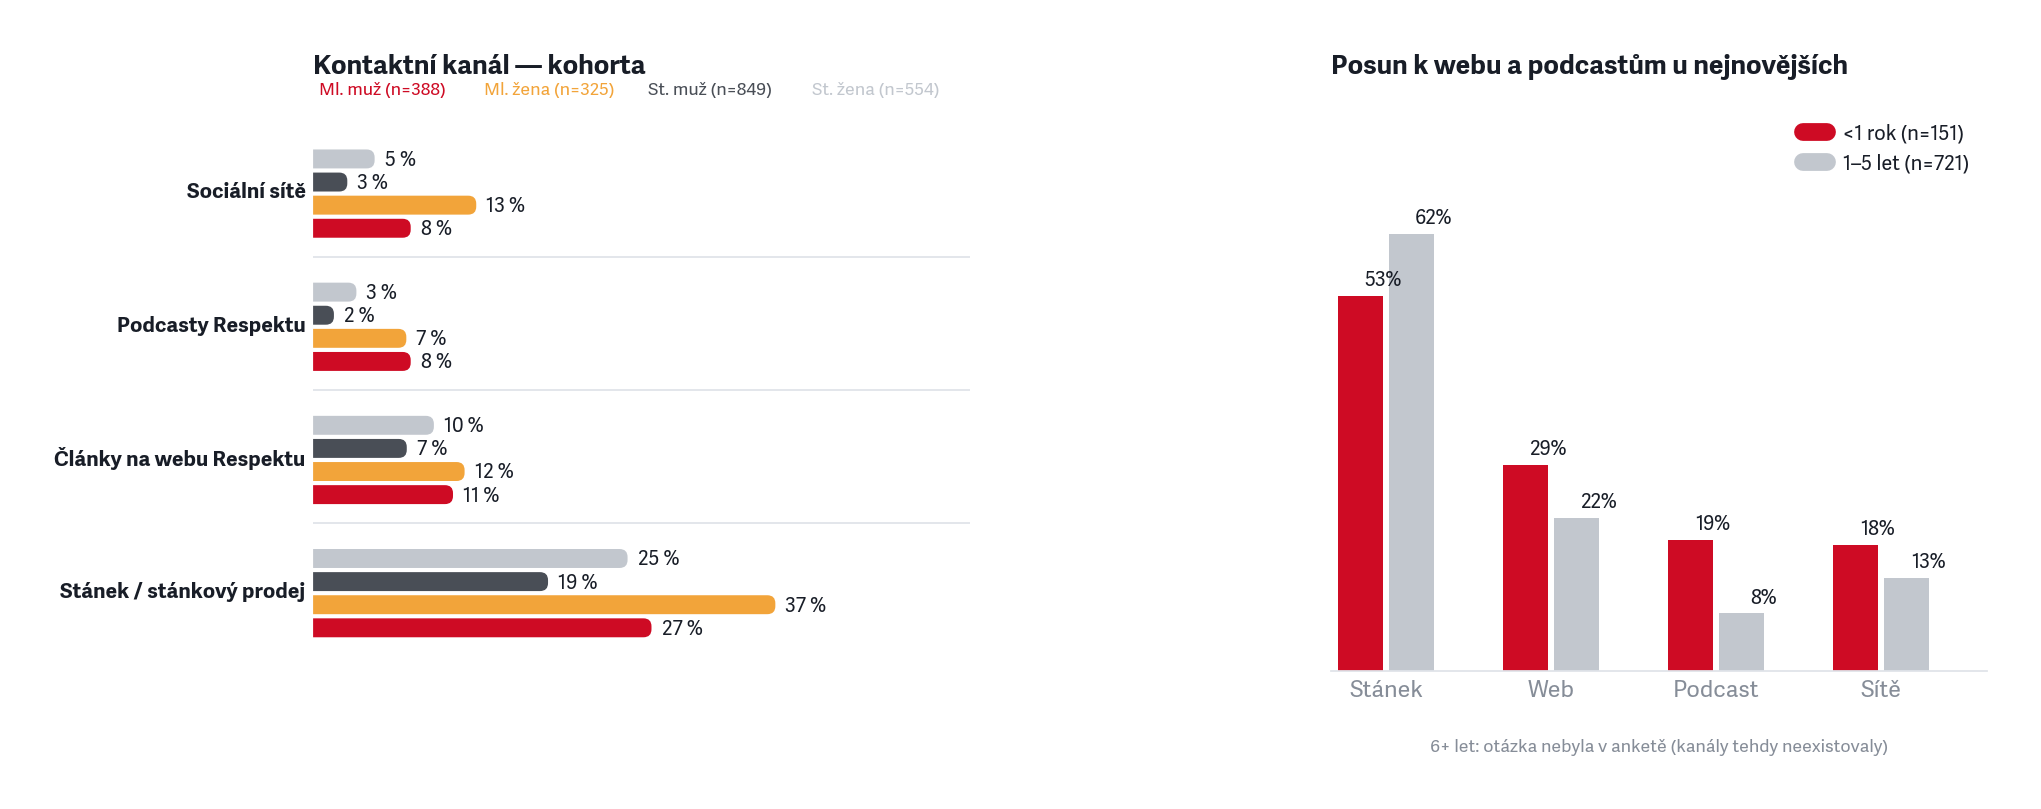
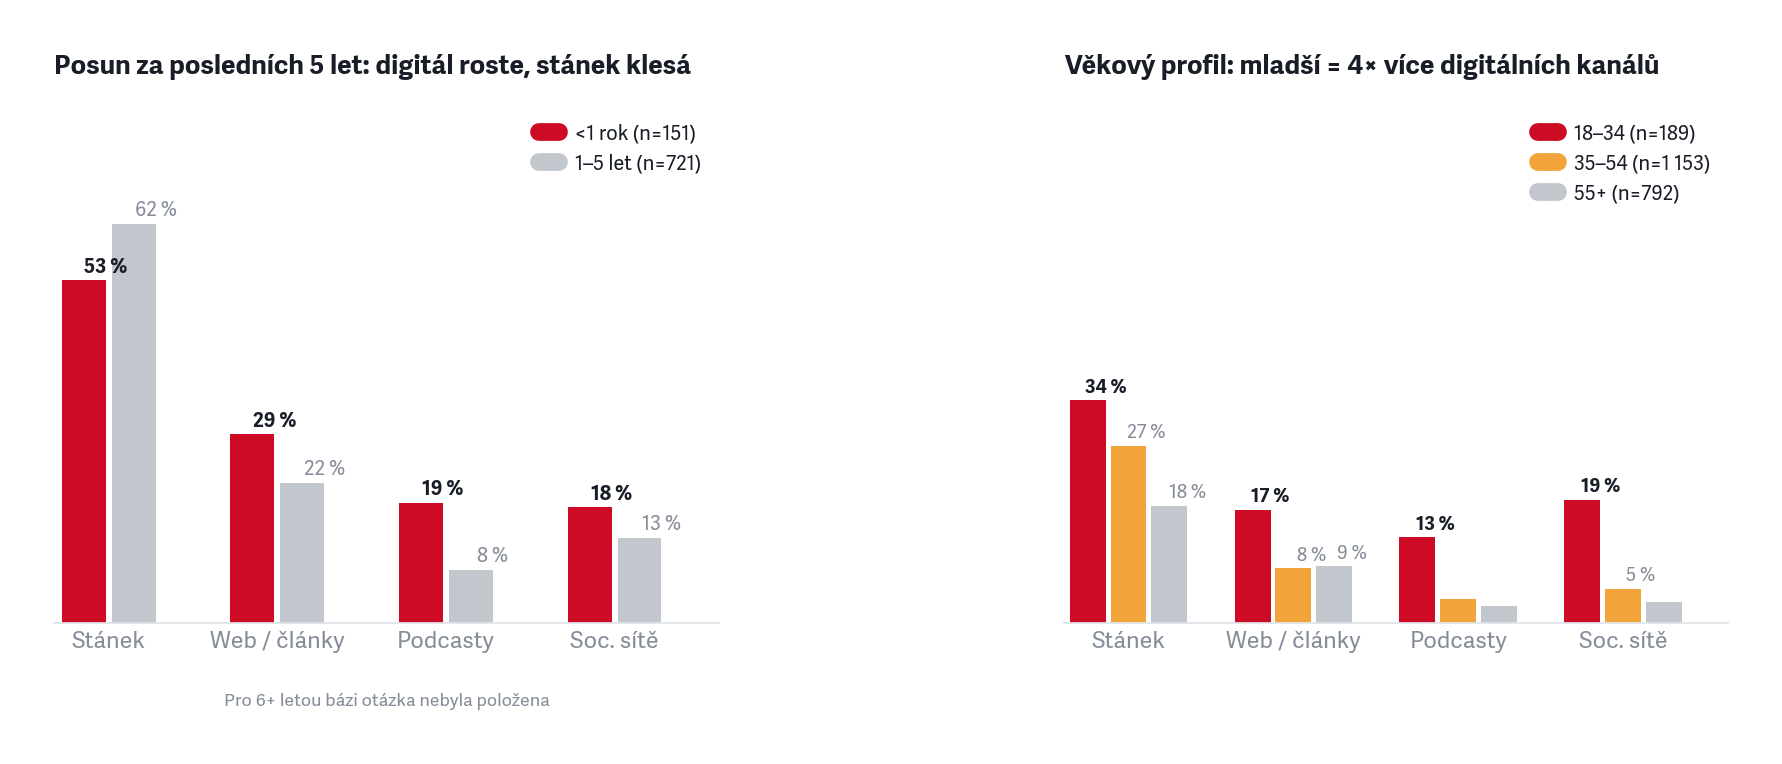
Slide 21b: přefrámování na generační posun akvizičních kanálů
Graf redesignován: vlevo čas (<1 rok vs 1–5 let), vpravo věk (18–34 / 35–54 / 55+)
- Podcast: 8→19 % u nejnovějších; 13 % u 18–34 vs 3 % u 55+
- Sítě: 13→18 %; 19 % u 18–34 vs 3 % u 55+
- Stánek: klesá z 62→53 %; stále dominantní u starších

diff --git a/charts/make_charts.py b/charts/make_charts.py
@@ -523,95 +523,89 @@ def chart_akvizicni_kanaly():
     web   = xc(df.columns[14])
     pod   = xc(df.columns[15])
     site  = xc(df.columns[17])
-
-    vek     = num("vek_ord")
-    pohlavi = df["Jaké je vaše pohlaví?"].str.strip()
-    delka   = num("delka_predplatneho_ord")
-
-    mladi  = vek.isin([1, 2, 3])
-    starsi = vek.isin([4, 5, 6])
-    mm = mladi  & (pohlavi == "Muž")
-    mz = mladi  & (pohlavi == "Žena")
-    sm = starsi & (pohlavi == "Muž")
-    sz = starsi & (pohlavi == "Žena")
+    vek   = num("vek_ord")
+    delka = num("delka_predplatneho_ord")
 
     def pct(mask_n, mask_d):
         n = mask_d.sum()
         return mask_n[mask_d].sum() / n * 100 if n else 0
 
-    cohorts  = [("Ml. muž",   mm, RED),     ("Ml. žena",   mz, AMBER),
-                ("St. muž",   sm, GRAPHITE), ("St. žena",   sz, GRAYBAR)]
-    channels = [("Stánek / stánkový prodej", stank),
-                ("Články na webu Respektu",  web),
-                ("Podcasty Respektu",         pod),
-                ("Sociální sítě",             site)]
+    all_ch    = [stank, web, pod, site]
+    ch_labels = ["Stánek", "Web / články", "Podcasty", "Soc. sítě"]
 
-    fig, (ax1, ax2) = plt.subplots(1, 2, figsize=(13.5, 4.6),
-                                    gridspec_kw={"wspace": 0.55})
+    fig, (ax1, ax2) = plt.subplots(1, 2, figsize=(13.5, 4.2),
+                                    gridspec_kw={"wspace": 0.52})
 
-    # --- Levý panel: grouped horizontal bars channel × cohort ---
-    bar_h = 0.17
-    grp_h = len(cohorts) * bar_h + 0.30
-    ax1.set_xlim(0, 52)
-    ax1.set_ylim(-0.25, len(channels) * grp_h)
-    for ci, (ch_label, ch_mask) in enumerate(channels):
-        y_base = ci * grp_h
-        for bi, (co_label, co_mask, co_color) in enumerate(cohorts):
-            y = y_base + bi * bar_h
-            v = pct(ch_mask, co_mask)
-            round_rect(ax1, 0, y, max(v, 0.3), bar_h * 0.82, co_color, corners="tr,br", R=5)
-            ax1.text(v + 0.8, y + bar_h * 0.41, f"{v:.0f} %",
-                     va="center", fontsize=9, color=INK)
-        ax1.text(-0.6, y_base + len(cohorts) * bar_h / 2,
-                 ch_label, va="center", ha="right", fontsize=9.5, color=INK, fontweight="bold")
-        if ci > 0:
-            ax1.axhline(y_base - 0.14, color=HAIRLINE, lw=0.8)
-
-    # legenda nahoře
-    for bi, (co_label, co_mask, co_color) in enumerate(cohorts):
-        n = int(co_mask.sum())
-        ax1.text(13 * bi + 0.5, len(channels) * grp_h + 0.08,
-                 f"{co_label} (n={n})", fontsize=8, color=co_color)
-
-    ax1.set_yticks([]); ax1.set_xticks([])
-    for s in ("top", "right", "left", "bottom"): ax1.spines[s].set_visible(False)
-    ax1.set_title("Kontaktní kanál — kohorta", fontsize=12, fontweight="bold",
-                  color=INK, loc="left", pad=14)
-
-    # --- Pravý panel: trend <1 rok vs 1–5 let ---
-    all_ch = [stank, web, pod, site]
-    short  = ["Stánek", "Web", "Podcast", "Sítě"]
-    delka_g = [(0, "<1 rok (n=151)", RED), (1, "1–5 let (n=721)", GRAYBAR)]
+    # ---- Levý panel: čas — <1 rok vs 1–5 let ----
+    delka_g = [
+        (0, "<1 rok\n(n=151)",  RED),
+        (1, "1–5 let\n(n=721)", GRAYBAR),
+    ]
     bw = 0.34
-    xs = [0, 1.1, 2.2, 3.3]
+    xs = [0, 1.15, 2.30, 3.45]
 
     for di, (dv, dl, dc) in enumerate(delka_g):
         mask_d = delka == dv
         for xi, ch_mask in enumerate(all_ch):
             v = pct(ch_mask, mask_d)
             xpos = xs[xi] + di * bw
-            ax2.bar(xpos, v, width=bw * 0.88, color=dc, zorder=2)
-            ax2.text(xpos + bw * 0.44, v + 1.5, f"{v:.0f}%",
-                     ha="center", fontsize=9, color=INK)
+            ax1.bar(xpos, v, width=bw * 0.88, color=dc, zorder=2)
+            ax1.text(xpos + bw * 0.44, v + 1.2, f"{v:.0f} %",
+                     ha="center", fontsize=9,
+                     color=INK if di == 0 else GRAY,
+                     fontweight="bold" if di == 0 else "normal")
 
-    ax2.set_xticks([x + bw / 2 for x in xs])
-    ax2.set_xticklabels(short, fontsize=10.5)
-    ax2.set_xlim(-0.2, xs[-1] + bw * 2 + 0.2)
+    ax1.set_xticks([x + bw / 2 for x in xs])
+    ax1.set_xticklabels(ch_labels, fontsize=10.5)
+    ax1.set_xlim(-0.2, xs[-1] + bw * 2 + 0.2)
+    ax1.set_ylim(0, 80)
+    ax1.set_yticks([])
+    for s in ("top", "right", "left"): ax1.spines[s].set_visible(False)
+    ax1.spines["bottom"].set_color(HAIRLINE)
+    ax1.tick_params(length=0)
+    for di, (dv, dl, dc) in enumerate(delka_g):
+        ax1.plot([], [], color=dc, linewidth=8, solid_capstyle="round",
+                 label=dl.replace("\n", " "))
+    ax1.legend(fontsize=9, frameon=False, loc="upper right", handlelength=1.0)
+    ax1.annotate("Pro 6+ letou bázi otázka nebyla položena",
+                 xy=(0.5, -0.16), xycoords="axes fraction",
+                 fontsize=8, color=GRAY, ha="center")
+    ax1.set_title("Posun za posledních 5 let: digitál roste, stánek klesá",
+                  fontsize=12, fontweight="bold", color=INK, loc="left", pad=14)
+
+    # ---- Pravý panel: věk — 18–34 vs 35–54 vs 55+ ----
+    age_g = [
+        (vek.isin([1, 2]),    "18–34\n(n=189)",   RED),
+        (vek.isin([3, 4]),    "35–54\n(n=1 153)", AMBER),
+        (vek.isin([5, 6]),    "55+\n(n=792)",      GRAYBAR),
+    ]
+    bw2 = 0.26
+    xs2 = [0, 1.05, 2.10, 3.15]
+
+    for di, (age_mask, al, ac) in enumerate(age_g):
+        for xi, ch_mask in enumerate(all_ch):
+            v = pct(ch_mask, age_mask)
+            xpos = xs2[xi] + di * bw2
+            ax2.bar(xpos, v, width=bw2 * 0.88, color=ac, zorder=2)
+            if v >= 5:
+                ax2.text(xpos + bw2 * 0.44, v + 1.2, f"{v:.0f} %",
+                         ha="center", fontsize=8.5,
+                         color=INK if di == 0 else GRAY,
+                         fontweight="bold" if di == 0 else "normal")
+
+    ax2.set_xticks([x + bw2 for x in xs2])
+    ax2.set_xticklabels(ch_labels, fontsize=10.5)
+    ax2.set_xlim(-0.15, xs2[-1] + bw2 * 3 + 0.15)
     ax2.set_ylim(0, 80)
     ax2.set_yticks([])
     for s in ("top", "right", "left"): ax2.spines[s].set_visible(False)
     ax2.spines["bottom"].set_color(HAIRLINE)
     ax2.tick_params(length=0)
-
-    # legenda pravého panelu
-    for di, (dv, dl, dc) in enumerate(delka_g):
-        ax2.plot([], [], color=dc, linewidth=8, solid_capstyle="round", label=dl)
-    ax2.legend(fontsize=9, frameon=False, loc="upper right", handlelength=1.2)
-
-    ax2.annotate("6+ let: otázka nebyla v anketě (kanály tehdy neexistovaly)",
-                 xy=(0.5, -0.14), xycoords="axes fraction",
-                 fontsize=8, color=GRAY, ha="center")
-    ax2.set_title("Posun k webu a podcastům u nejnovějších",
+    for di, (age_mask, al, ac) in enumerate(age_g):
+        ax2.plot([], [], color=ac, linewidth=8, solid_capstyle="round",
+                 label=al.replace("\n", " "))
+    ax2.legend(fontsize=9, frameon=False, loc="upper right", handlelength=1.0)
+    ax2.set_title("Věkový profil: mladší = 4× více digitálních kanálů",
                   fontsize=12, fontweight="bold", color=INK, loc="left", pad=14)
 
     save(fig, "akvizicni_kanaly.png")

diff --git a/prezentace/slides.md b/prezentace/slides.md
@@ -1,50 +1,9 @@
 <!-- .slide: data-background-color="#222222" -->
 <div class="dark title">
 <p class="kicker">PŘEDPLATITELSKÝ PRŮZKUM</p>
-<h1>predplatiteľský prieskum určený na zisťovanie nálady v predplatiteľskom kmeni, smerovanie vývoja a marketingu a cieľom je udržanie retencie resp. prezícnejší pozicioning online produktu.Klíčová zjištění</h1>
+<h1>Klíčová zjištění</h1>
 <p class="meta">N = 2 139 dokončených odpovědí · export 20. 6. 2026</p>
 </div>
-
----
-
-Rado
-
-- Jadro do 10 rokov! ?
-- segmentácia: v čom sú iní mladší?
-- Ak klesá print, ako nahradíme najčastejší vstupný produkt? Case for online reach / trial
-- Youtube nie je vstupnou bránou (aspoň nie teraz)
-- četl jsem cizí výtisk Sila printu sa multiplikuje cirkuláciou - pořád silné!
-- Newslettre nie sú asi silný akvizičný benefit? Nemali by sme ich používať v komunikácii?
-- audio = pohodlnost, důraz na přístupnost a ux
-- sdílení v rodině - klub/rodičovské
-- Zopakujme si to: nie sme rychlé shrnutí
-- V akvizičnej komunikácii spomínajme úlohu média, konkrétnych silných autorov a audio?
-- Lákadlom na web / app je archív, odtiaľ môžeme budovať online návyky
-- "heldám nové zaujímavé čtení" - discover tab (personalizované)?
-- potvrdenie: aplikácia je silnejší retenčný nástroj ako web - graf přidat
-- app Most pre budovanie online návyku: vlastnosti printu a audia
-- app chybí Jasné: vyhľadávanie, označovnanie (fajka od Economistu určite?)
-- Jadro sú politika a komentáre (vieme), ale pritom stále ide o pozitívny, oddychový rituál (vzácne!)
-- AI hlas je najväčší produktový problém celého prieskumu — ale dáta ho rozkladajú na tri opraviteľné vrstvy. V hlavných možnostiach je „audiočlánky zní moc uměle" tretia najčastejšia bariéra (273). „Jiné" k tomu pridáva ~30 hlasov, ktoré sa delia na: (a) opraviteľné defekty — chýbajúce pauzy medzi článkami, „uřízlé" začiatky, splývanie nadpisov, výslovnosť mien/čísloviek/skratiek, kolísanie hlasitosti, jeden ženský hlas s vysokofrekvenčným šumom (konkrétny audio bug!); (b) UX návrhy — dvojhlas pre rozhovory, striedanie hlasov, nastaviteľná medzera; (c) principiálny smútok za ľuďmi — s elegantným kompromisom priamo od respondenta: „hlavní článek čísla přečtený od člověka, jeden týdně by možná šel, ne?". A dôležitý protihlas: „Teď, když jsou všechny články načteny AI, nemám se svým očním handicapem žádné bariéry. Dříve velké." — AI audio je zároveň prístupnosť a škálovateľnosť. Záver pre Respekt: nie návrat k ľuďom, ale QA vrstva + hybridný model.
-- poslech kde - výborný podiel aplikácie (sedia aj čísla?) - ověřit
-- strata pozície prehrávania pri prerušení (~9 — najčastejší jednotlivý bug), autoplay/playlist problémy (~5), neprehľadnosť a orientácia (~12), chýbajúce vyhľadávanie (4), offline sťahovanie s absurdným UX (3 — „pro stažení musím nejdřív spustit přehrávání"), nefunkčné ovládanie na zamknutej obrazovke/cez Bluetooth (~4), chýbajúca kontinuita poslchu web↔app (1, pekne opísaná).
-- Existuje aj tretia cesta — a respondenti ju sami navrhujú: privátny RSS feed pre predplatiteľov. „Ideální by bylo mít RSS zdroj i pro své audio předplatné, abych si ho mohl přidat do své aplikace."
-
----
-
-ChatGPT
-
-- Respekt je vnímán jako důvěryhodná instituce, analytické médium a hodnotový projekt.
-- Důvěra a témata jsou silnější než objem obsahu.
-- Převaha dlouhodobých a vysokoškolsky vzdělaných předplatitelů.
-- Nezávislá žurnalistika je dominantní motiv.
-- Velmi vysoká deklarovaná retence.
-- Pět hodnotových segmentů publika.
--- Analytici a opinion leaders - 28 % publika. Hledají interpretaci a kontext.
--- Hodnotoví podporovatelé - 21 % publika. Platí za existenci nezávislé žurnalistiky.
--- Kulturně-intelektuální čtenáři - 20 % publika. Eseje, kultura, inspirace.
--- Tradiční věrní - 19 % publika. Silná vazba na tisk a značku.
--- Hledači orientace - 12 % publika. Přehled, orientace, audio.
 
 ---
 
@@ -118,10 +77,7 @@ ChatGPT
 ![](charts/heat_spokojenost.png)
 
 > Zlepšit kvalitu AI hlasu (výslovnost, rozlišení hlasů) a aktivovat ty, kdo audio zatím míjejí.
-- MIXUJÍ SE TAM STÍŽNOSTI NA VÝSLOVNOST V PODCASTECH
-- Jeden z vašich hlasů, ženský, který často používáte na hlavní témata, má v pozadí vysokofrekvenční zvuk, který z toho dělá neposlouchatelnou věc. Slyším to v autě i ve sluchátcích a už hodně dlouho, nemyslím si, že to je problém na mojí straně
-- ČASTO ŘEŠÍ UŽ VYŘEŠENÉ - CHYBĚJÍCÍ TEXTY (AUDIOTÉKA?), STŘÍDÁNÍ HLASŮ V ROZHOVORECH, V2, 
-- ODLIŠENÍ KONCE A ZAČÁTKU, DLOUHÉ PAUZY, ZMĚNY HLASU NA ZAČÁTKU ODSTAVŮC
+
 ---
 
 ## 6 · Vyhledávání a archiv = nejkonkrétnější funkční mezera
@@ -131,11 +87,7 @@ ChatGPT
 
 ![](charts/vyhledavani.png)
 
-> Vyhledávání a orientaci v archivu vysoko na app/web roadmapu — opakovaná a řešitelná rychlá výhra.
-
-- VYHLEDÁVÁNÍ PŘIDAT RICE VÝŠ, DEEPLINKY
-- ZVÁŠŽIT FUNKCI LANDING PAGE Z IG V APP
-- 
+> Vyhledávání a orientaci v archivu vysoko na app/web roadmapu — opakovaná a řešitelná rychlá výhra. 
 
 ---
 
@@ -161,8 +113,6 @@ ChatGPT
 ![](charts/vytky.png)
 
 > Redakční reflexe kultury, vyváženosti a délky; „bias" je menšinový, ale hlasitý a hodnotově nabitý signál.
-
-- TOHLE JEŠTĚ VZTÁHNOUT K UZAVŘENÝM - DORUČOVÁNÍ MENŠÍ, DÉLKA ČLÁNKŮ ASI TAKY NEODPOVÍDÁ
 
 ---
 
@@ -230,8 +180,6 @@ ChatGPT
 ![](charts/churneri_overindex.png)
 
 > Retence musí mířit na obě osy zvlášť — produktové opravy neudrží toho, kdo odchází kvůli vnímané jednostrannosti.
-
-- DIVNÝ SLOVNÍK
 
 ---
 
@@ -315,8 +263,6 @@ ChatGPT
 
 > Vizuální identita má emoční vazbu ke značce; zvážit konstruktivní / řešení-orientovaný obsah jako protiváhu.
 
-- OPATRNĚJŠÍ FORMULACE
-
 ---
 
 ## 21 · Co přimělo k předplatnému — mise táhne všechny kohorty
@@ -332,16 +278,16 @@ ChatGPT
 
 ---
 
-## 21b · Kontaktní kanál před předplacením: stánek táhne, digitál roste
+## 21b · Stánek přivedl jednu generaci — digitál musí přivést příští
 
-- **Stánek** zůstává dominantním kontaktem (24,5 % celkem) — mladší ženy výrazně nad průměrem (37 %)
-- Web: 9 %, podcasty: 4 %, soc. sítě: 6 % — ale u mladší kohorty 2–3× silnější
-- **Posun u nových předplatitelů**: ti z posledního roku přichází výrazně více přes web (29 %) a podcast (19 %) než ti z 1–5 let (22 % / 8 %) — digitální kanály rostou
-- Konverzní spouštěč: **konkrétní článek** 15,7 % (rovnoměrně přes kohorty); podcast→konverze jen 2,6 %; soc. sítě→konverze 0,9 %
+- **Posun za 5 let**: podcast 8 % → **19 %**, web 22 % → **29 %**, sítě 13 % → **18 %** u nejnovějších; stánek klesá z 62 % → 53 %
+- **Věkový profil je strukturální signál**: soc. sítě 19 % a podcast 13 % u 18–34letých vs. 3 % u 55+ — 4–6× rozdíl
+- Konverzní spouštěč zůstává stejný napříč kanály: **konkrétní článek** 16 %, podpora médií 64 %
+- Kanál přivede ke dveřím — hodnota obsahu zkonvertuje
 
 ![](charts/akvizicni_kanaly.png)
 
-> Stánek stále relevantní (zejm. u žen), ale u nových předplatitelů web a podcast přebírají roli vstupu. Signál pro distribuci obsahu na webu a audio jako akvizičního kanálu.
+> Stánek nebude nahrazen jedním kanálem. Web a podcast jsou nejrychleji rostoucí vstupní body pro novou generaci — investice do distribuovatelného obsahu (articles za paywallem, audioklipy, sítě) je akvizice, ne jen marketing.
 
 ---
 